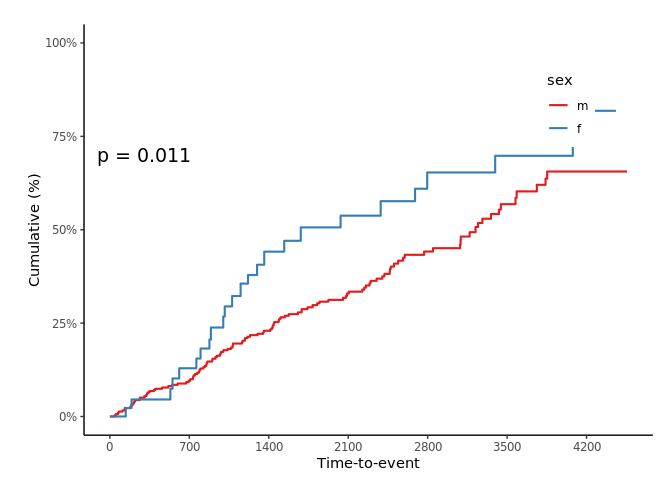
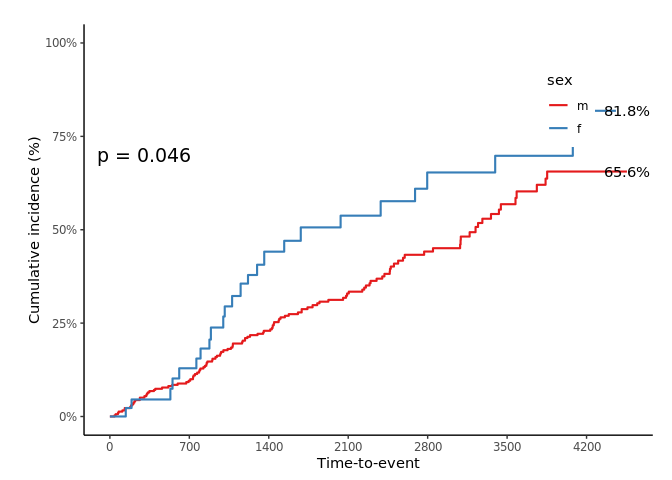
0.4.2

diff --git a/README.md b/README.md
@@ -49,7 +49,7 @@ jskm(fit)
 ``` r
 jskm(fit, table = T, pval = T, label.nrisk = "No. at risk", size.label.nrisk = 8, 
      xlabs = "Time(Day)", ylabs = "Survival", ystratalabs = c("Obs", "Lev", "Lev + 5FU"), ystrataname = "rx",
-     marks = F, timeby = 365, xlims = c(0, 3000), ylims = c(0.25, 1))
+     marks = F, timeby = 365, xlims = c(0, 3000), ylims = c(0.25, 1), showpercent = T)
 ```
 
 ![](man/figures/README-unnamed-chunk-1-2.png)<!-- -->
@@ -57,7 +57,7 @@ jskm(fit, table = T, pval = T, label.nrisk = "No. at risk", size.label.nrisk = 8
 ### Cumulative hazard: 1- Survival probability
 
 ``` r
-jskm(fit, ci = T, cumhaz = T,  mark = F, ylab = "Cumulative hazard (%)", surv.scale = "percent", pval =T, pval.size = 6, pval.coord = c(300, 0.7))
+jskm(fit, ci = T, cumhaz = T,  mark = F, ylab = "Cumulative incidence (%)", surv.scale = "percent", pval =T, pval.size = 6, pval.coord = c(300, 0.7))
 ```
 
 ![](man/figures/README-unnamed-chunk-2-1.png)<!-- -->
@@ -69,6 +69,12 @@ jskm(fit, mark = F,  surv.scale = "percent", pval =T, table = T, cut.landmark = 
 ```
 
 ![](man/figures/README-unnamed-chunk-3-1.png)<!-- -->
+
+``` r
+jskm(fit, mark = F,  surv.scale = "percent", pval =T, table = T, cut.landmark = 500, showpercent = T)
+```
+
+![](man/figures/README-unnamed-chunk-3-2.png)<!-- -->
 
 ### Weighted Kaplan-Meier plot - `svykm.object` in **survey** package
 
@@ -96,7 +102,7 @@ svyjskm(s2, pval = T,  table = T, design = dpbc)
 ![](man/figures/README-unnamed-chunk-4-2.png)<!-- -->
 
 ``` r
-svyjskm(s2, cumhaz = T, ylab = "Cumulative (%)", surv.scale = "percent", pval = T, design = dpbc, pval.coord = c(300, 0.7)) 
+svyjskm(s2, cumhaz = T, ylab = "Cumulative incidence (%)", surv.scale = "percent", pval = T, design = dpbc, pval.coord = c(300, 0.7), showpercent = T) 
 ```
 
 ![](man/figures/README-unnamed-chunk-4-3.png)<!-- -->
@@ -118,7 +124,7 @@ svyjskm(s3, ci = F)
 ![](man/figures/README-unnamed-chunk-5-2.png)<!-- -->
 
 ``` r
-svyjskm(s3, ci = F,  surv.scale = "percent", pval =T, table = T, cut.landmark = 1000)
+svyjskm(s3, ci = F,  surv.scale = "percent", pval =T, table = T, cut.landmark = 1000, showpercent = T)
 ```
 
 ![](man/figures/README-unnamed-chunk-5-3.png)<!-- -->
